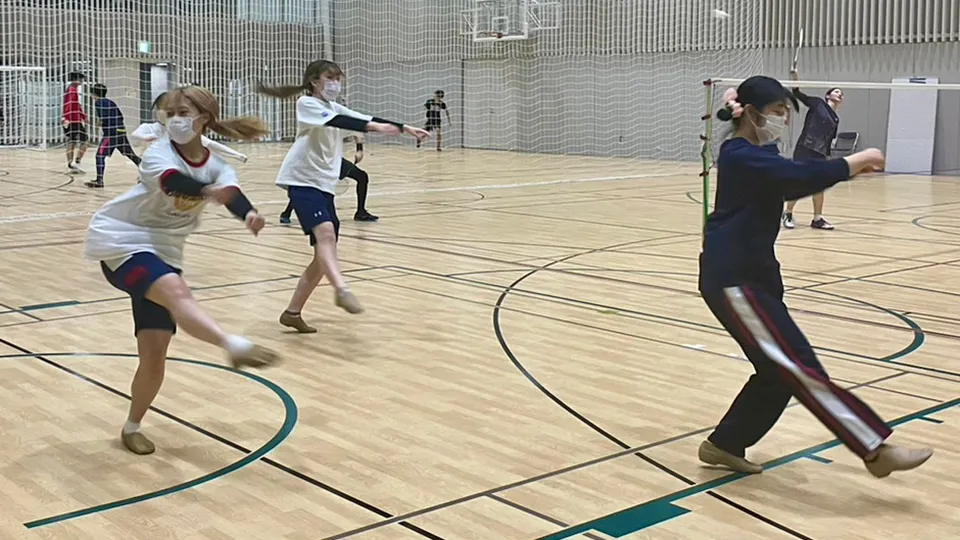
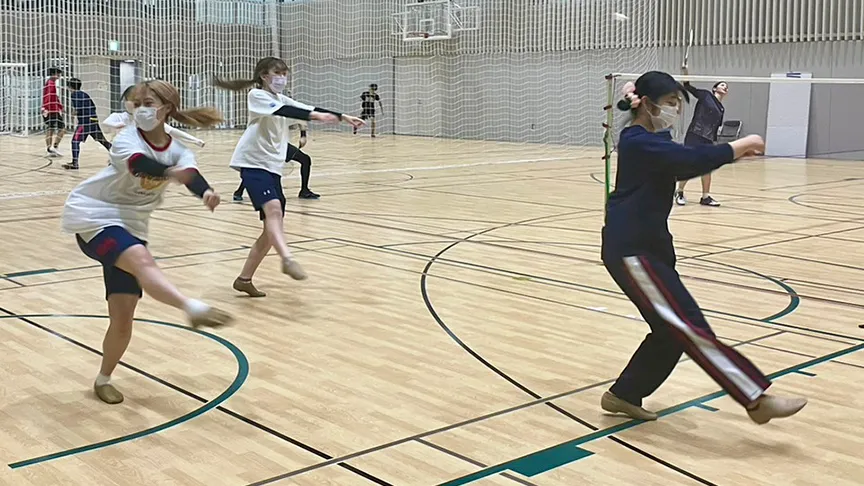
画像、デザイン調整

diff --git a/src/components/main/activity/parts/trainingImg.vue b/src/components/main/activity/parts/trainingImg.vue
@@ -1,15 +1,15 @@
 <script setup>
-import { Swiper, SwiperSlide } from 'swiper/vue';
-import { EffectFade, Autoplay } from 'swiper';
-import 'swiper/css/effect-fade';
-import 'swiper/css';
+import { Swiper, SwiperSlide } from 'swiper/vue'
+import { EffectFade, Autoplay } from 'swiper'
+import 'swiper/css/effect-fade'
+import 'swiper/css'
 
 const images = [
   ['./assets/img/training01.webp', '練習するBlue Topaz'],
   ['./assets/img/training02.webp', '練習するBlue Topaz'],
   ['./assets/img/training03.webp', '練習するBlue Topaz'],
-  ['./assets/img/training04.webp', '練習するBlue Topaz（クリスマス）'],
-];
+  // ['./assets/img/training04.webp', '練習するBlue Topaz（クリスマス）'],
+]
 </script>
 
 <template>
@@ -31,7 +31,7 @@ const images = [
       class="scene_wrapper__img"
     >
       <SwiperSlide v-for="(image, index) in images" :key="`slide-${index}`">
-        <img :src="image[0]" :alt="image[1]" width="960" height="540" loading="lazy" decoding="async" />
+        <img :src="image[0]" :alt="image[1]" width="448" height="252" loading="lazy" decoding="async" />
       </SwiperSlide>
     </swiper>
   </div>

diff --git a/src/components/main/activity/Training.vue b/src/components/main/activity/Training.vue
@@ -1,7 +1,7 @@
 <script setup>
-import subHeading from '@/components/main/activity/parts/subHeading.vue';
-import Img from '@/components/main/activity/parts/trainingImg.vue';
-import Summary from '@/components/main/activity/parts/trainingSummary.vue';
+import subHeading from '@/components/main/activity/parts/subHeading.vue'
+import Img from '@/components/main/activity/parts/trainingImg.vue'
+import Summary from '@/components/main/activity/parts/trainingSummary.vue'
 </script>
 
 <template>
@@ -37,7 +37,7 @@ import Summary from '@/components/main/activity/parts/trainingSummary.vue';
     grid-template:
       'heading summary' auto
       'img summary' auto /
-      480px 510px;
+      448px 510px;
     gap: 0 30px;
   }
   @include mixin.mq('pc') {
